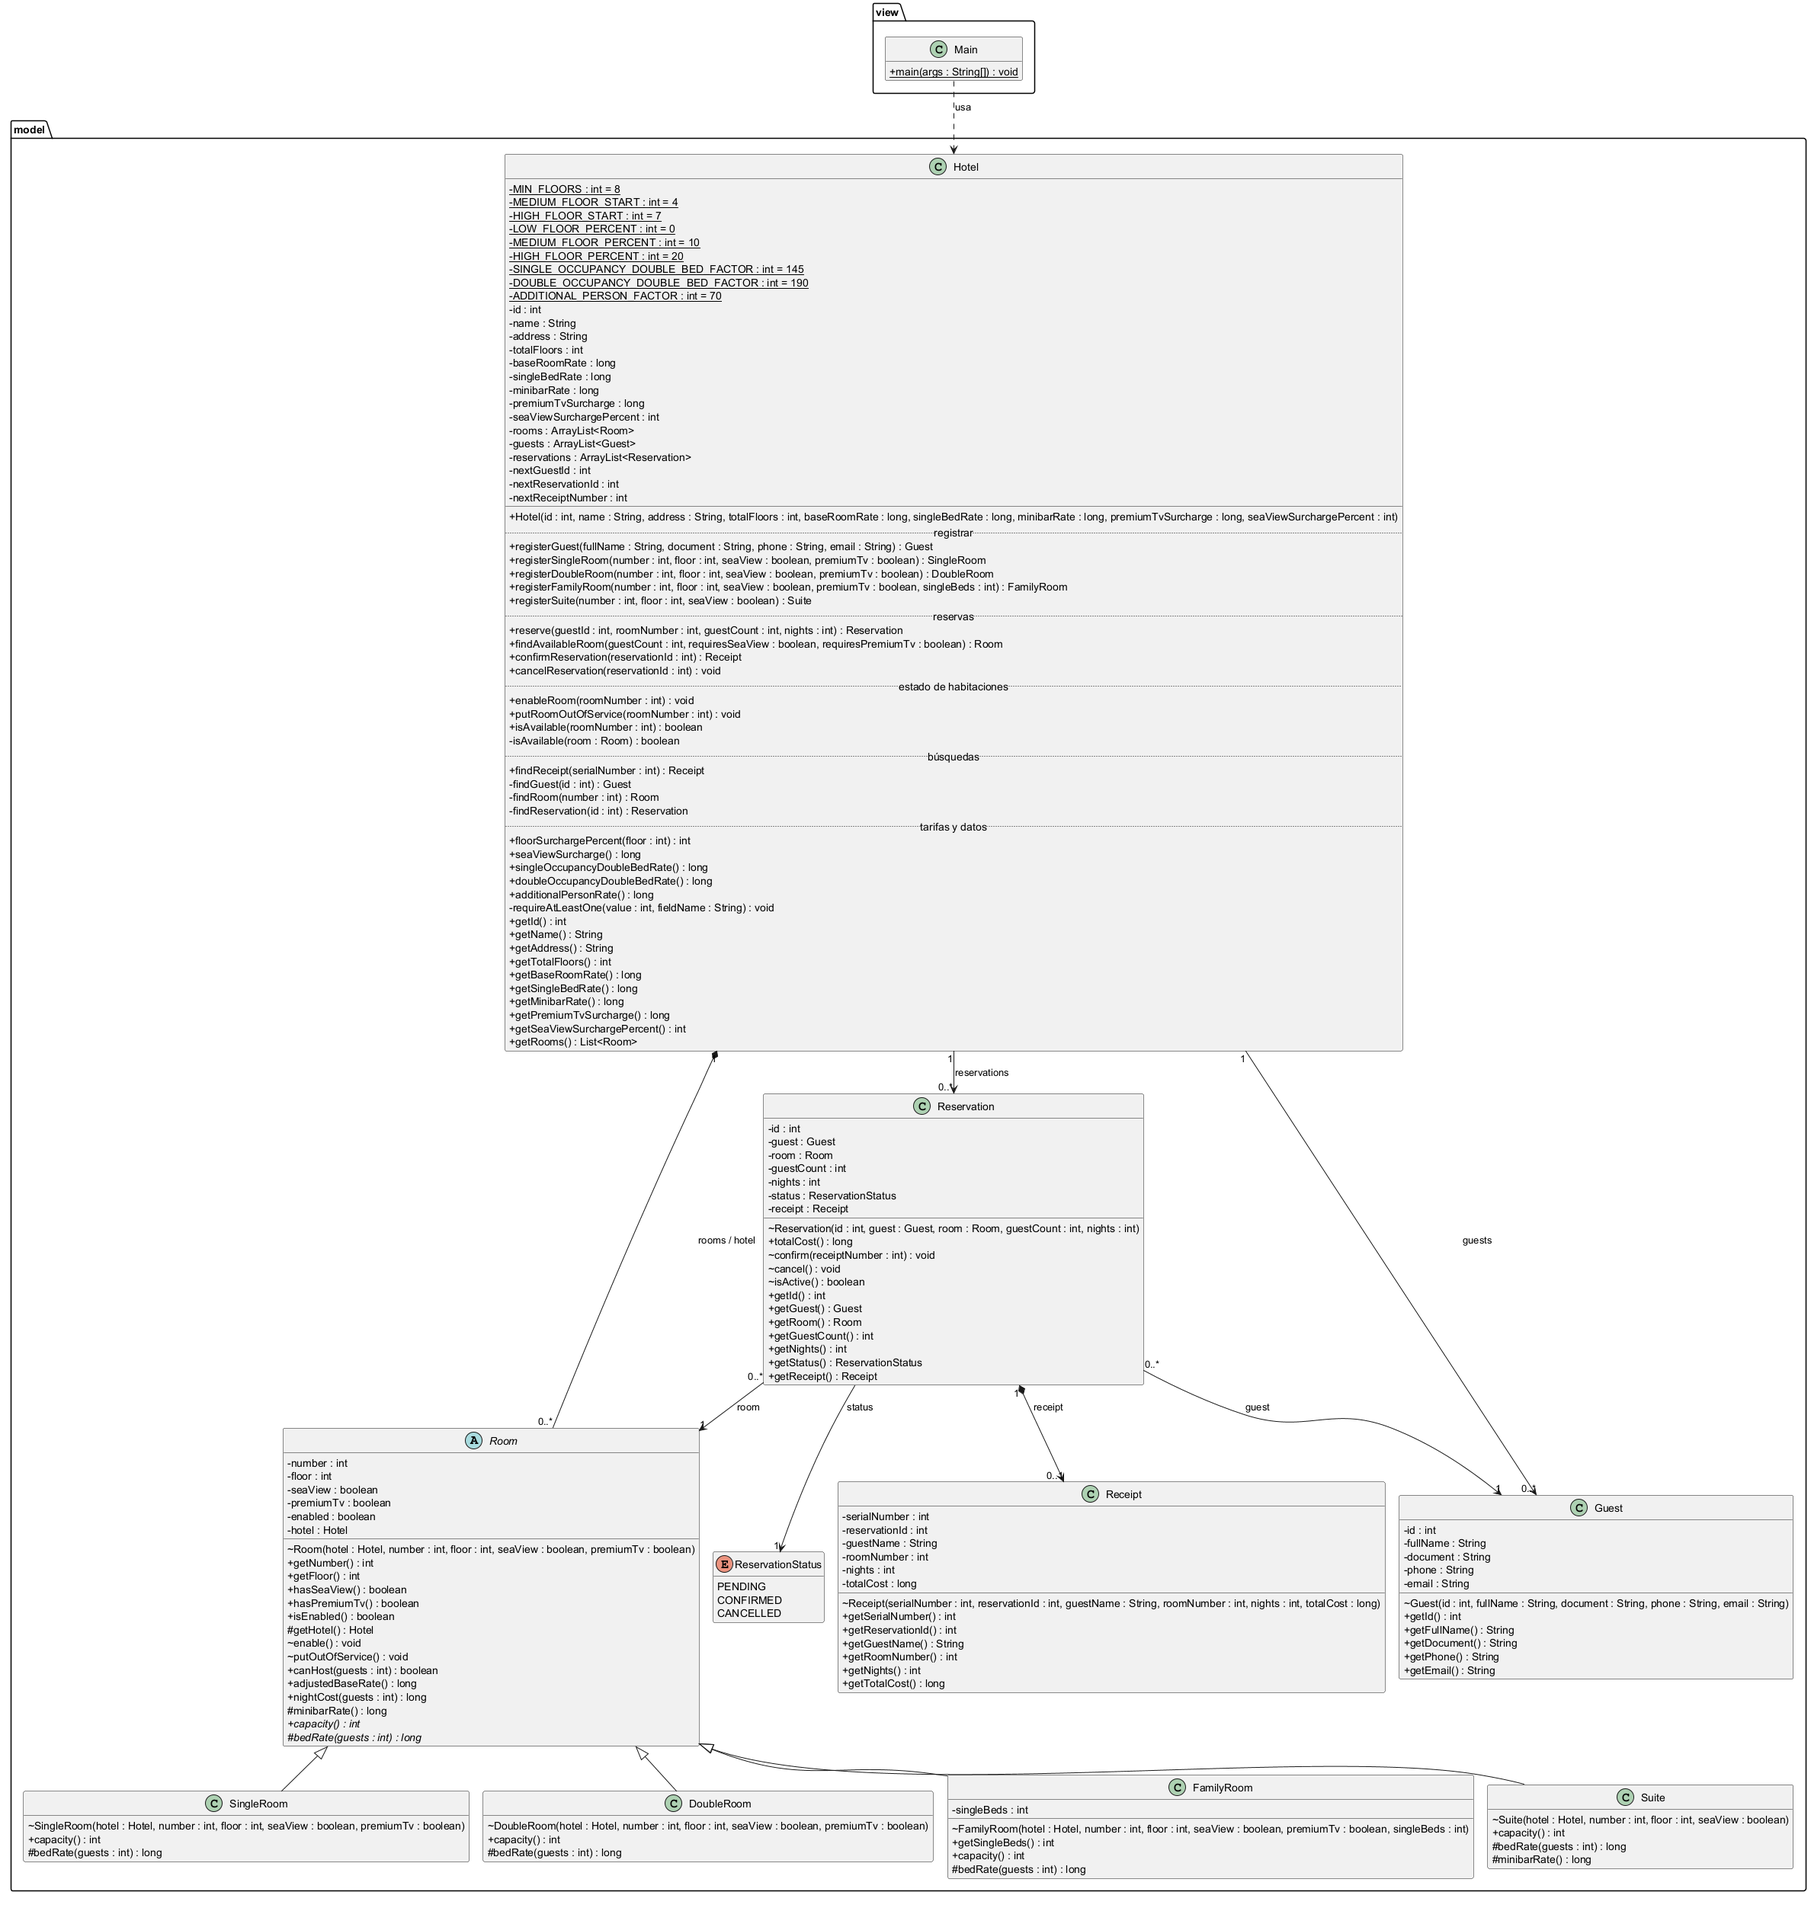
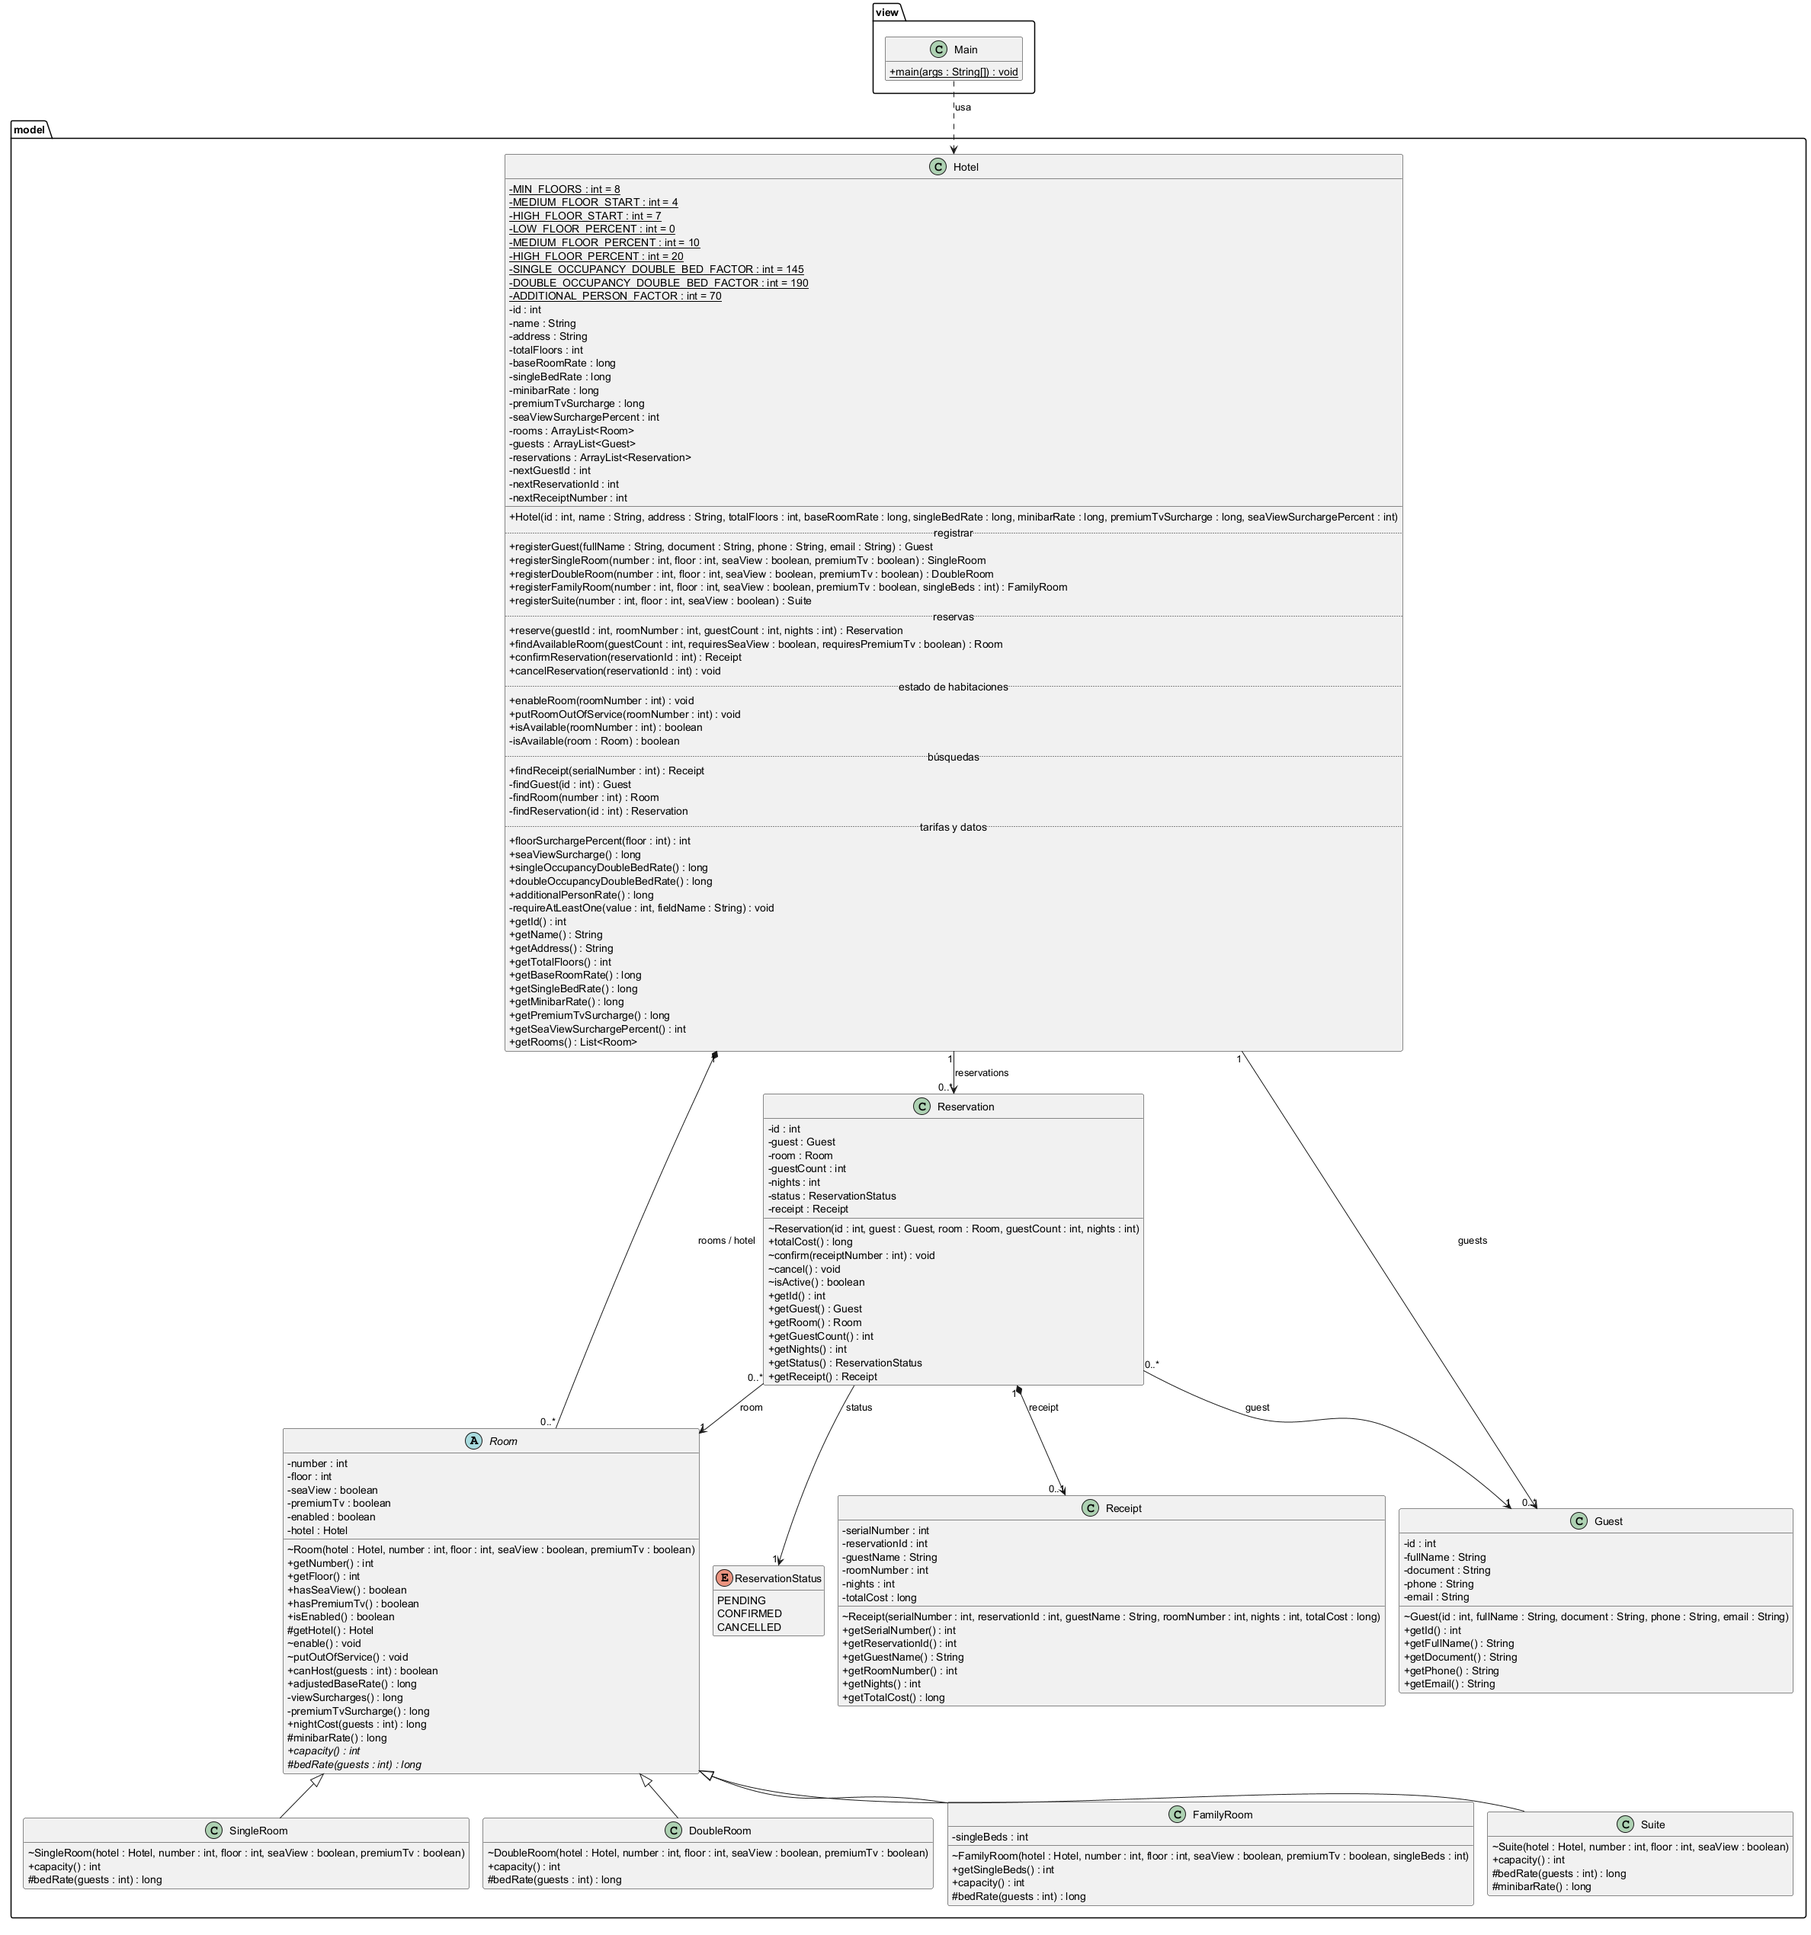
Add Room abstract class and Hotel core
Room holds the shared room data, the service state and the night
cost calculation (Template Method); subclasses will supply capacity
and bed rate.

Hotel core: floor band and bed factor constants, attributes,
constructor validations, getters and the rate calculations Room uses.
The reservations list stays commented out until Reservation exists.

Docs: D34 naming convention and Room helper methods in the diagram.

diff --git a/src/model/Hotel.java b/src/model/Hotel.java
@@ -1,0 +1,149 @@
+package model;
+
+import java.util.ArrayList;
+import java.util.Collections;
+import java.util.List;
+
+public class Hotel {
+
+    private static final int MIN_FLOORS = 8;
+
+    // Floor bands for the sea view surcharge: low 1-3, medium 4-6, high 7 and up.
+    private static final int MEDIUM_FLOOR_START = 4;
+    private static final int HIGH_FLOOR_START = 7;
+    private static final int LOW_FLOOR_PERCENT = 0;
+    private static final int MEDIUM_FLOOR_PERCENT = 10;
+    private static final int HIGH_FLOOR_PERCENT = 20;
+
+    // Bed rates as a percentage of the single bed rate.
+    private static final int SINGLE_OCCUPANCY_DOUBLE_BED_FACTOR = 145;
+    private static final int DOUBLE_OCCUPANCY_DOUBLE_BED_FACTOR = 190;
+    private static final int ADDITIONAL_PERSON_FACTOR = 70;
+
+    private final ArrayList<Room> rooms = new ArrayList<>();
+    private final ArrayList<Guest> guests = new ArrayList<>();
+    // TODO: enable when Reservation exists.
+    // private final ArrayList<Reservation> reservations = new ArrayList<>();
+    private int nextGuestId = 0;
+    private int nextReservationId = 0;
+    private int nextReceiptNumber = 0; 
+
+
+    private final int id;
+    private final String name;
+    private final String address;
+    private final int totalFloors;
+    private final long baseRoomRate;
+    private final long singleBedRate;
+    private final long minibarRate;
+    private final long premiumTvSurcharge;
+    private final int seaViewSurchargePercent;
+    
+    public Hotel(int id, String name, String address, int totalFloors, long baseRoomRate, long singleBedRate, long minibarRate, long premiumTvSurcharge, int seaViewSurchargePercent){
+        
+        validateArgument(id, 1, "El ID del hotel debe ser mayor que cero");
+        this.id = id;
+        validateNotBlank(name, "Nombre");
+        this.name = name;
+        validateNotBlank(address, "Dirección");
+        this.address = address;
+        validateArgument(totalFloors, MIN_FLOORS, "El hotel debe tener como mínimo " + MIN_FLOORS + " pisos");
+        this.totalFloors = totalFloors;
+        validateArgument(baseRoomRate, 1, "El precio base por habitación debe ser mayor que cero");
+        this.baseRoomRate = baseRoomRate;
+        validateArgument(singleBedRate, 1, "El precio base por cama debe ser mayor que cero");
+        this.singleBedRate = singleBedRate;
+        validateArgument(minibarRate, 1, "El costo por minibar debe ser mayor que cero");
+        this.minibarRate = minibarRate;
+        validateArgument(premiumTvSurcharge, 1, "El recargo por TV premium debe ser mayor que cero");
+        this.premiumTvSurcharge = premiumTvSurcharge;
+        validateArgument(seaViewSurchargePercent, 1, "El porcentaje de recargo por vista al mar debe ser mayor que cero");
+        this.seaViewSurchargePercent = seaViewSurchargePercent;
+    }
+
+    // --- Attribute queries ---
+
+    public int getId(){
+        return id;
+    }
+
+    public String getName(){
+        return name;
+    }
+
+    public String getAddress(){
+        return address;
+    }
+
+    public int getTotalFloors(){
+        return totalFloors;
+    }
+
+    public long getBaseRoomRate(){
+        return baseRoomRate;
+    }
+
+    public long getSingleBedRate(){
+        return singleBedRate;
+    }
+
+    public long getMinibarRate(){
+        return minibarRate;
+    }
+
+    public long getPremiumTvSurcharge(){
+        return premiumTvSurcharge;
+    }
+
+    public int getSeaViewSurchargePercent(){
+        return seaViewSurchargePercent;
+    }
+
+    // Read-only view: Main can list the rooms but cannot add or remove them.
+    public List<Room> getRooms(){
+        return Collections.unmodifiableList(rooms);
+    }
+
+    // --- Validation helpers ---
+
+    private void validateArgument(long value, long min, String message){
+        if(value < min){
+            throw new IllegalArgumentException(message);
+        }
+    }
+
+    private void validateNotBlank(String value, String fieldName){
+        if(value == null || value.isBlank()){
+            throw new IllegalArgumentException("El campo " + fieldName + " no puede estar vacío");
+        }
+    }
+
+    // --- Rate calculations (used by Room and its subclasses) ---
+
+    public long seaViewSurcharge(){
+        return (baseRoomRate*seaViewSurchargePercent)/100;
+    }
+
+    public int floorSurchargePercent(int floorNumber){
+        if(floorNumber >= HIGH_FLOOR_START){
+           return HIGH_FLOOR_PERCENT;
+        }
+        if(floorNumber >= MEDIUM_FLOOR_START){
+            return MEDIUM_FLOOR_PERCENT;
+        }else{
+            return LOW_FLOOR_PERCENT;
+        }
+    }
+
+    public long singleOccupancyDoubleBedRate(){
+        return (singleBedRate*SINGLE_OCCUPANCY_DOUBLE_BED_FACTOR)/100;
+    }
+
+    public long doubleOccupancyDoubleBedRate(){
+        return (singleBedRate*DOUBLE_OCCUPANCY_DOUBLE_BED_FACTOR)/100;
+    }
+
+    public long additionalPersonRate(){
+        return (singleBedRate*ADDITIONAL_PERSON_FACTOR)/100;
+    }
+}

diff --git a/src/model/Room.java b/src/model/Room.java
@@ -1,0 +1,112 @@
+package model;
+
+/**
+ * Base class for all room types. Subclasses define capacity and bed rate.
+ */
+public abstract class Room {
+
+    private final int number;
+    private final int floor;
+    private final boolean seaView;
+    private final boolean premiumTv;
+    private final Hotel hotel;
+    private boolean enabled;
+
+    // --- Construction (only Hotel creates rooms) ---
+
+    Room(Hotel hotel, int number, int floor, boolean seaView, boolean premiumTv){
+        if(number <= 0){
+            throw new IllegalArgumentException("El número de habitación debe ser mayor que cero");
+        }
+        this.number = number;
+
+        if(floor <= 0 || floor > hotel.getTotalFloors()){
+            throw new IllegalArgumentException("Solo se admiten pisos entre 1 y " + hotel.getTotalFloors());
+        }
+        this.floor = floor;
+
+        this.hotel = hotel;
+        this.seaView = seaView;
+        this.premiumTv = premiumTv;
+        enabled = true;
+    }
+
+    // --- Attribute queries ---
+
+    public int getNumber(){
+        return number;
+    }
+
+    public int getFloor(){
+        return floor;
+    }
+
+    public boolean hasSeaView(){
+        return seaView;
+    }
+
+    public boolean hasPremiumTv(){
+        return premiumTv;
+    }
+
+    protected Hotel getHotel(){
+        return hotel;
+    }
+
+    // --- Service state (changed only by Hotel) ---
+
+    public boolean isEnabled(){
+        return enabled;
+    }
+
+    void enable(){
+        enabled = true;
+    }
+
+    void putOutOfService(){
+        enabled = false;
+    }
+
+    // --- Capacity ---
+
+    public abstract int capacity();
+
+    public boolean canHost(int numberOfGuests){
+        return capacity() >= numberOfGuests;
+    }
+
+    // --- Night cost (Template Method) ---
+
+    public long nightCost(int guests){
+        return bedRate(guests) + adjustedBaseRate() + minibarRate();
+    }
+
+    public long adjustedBaseRate(){
+        long adjustedBaseRate = hotel.getBaseRoomRate() + viewSurcharges() + premiumTvSurcharge();
+        return adjustedBaseRate;
+    }
+
+    private long viewSurcharges(){
+        long viewSurcharges = 0;
+        if(hasSeaView()){
+            viewSurcharges = hotel.seaViewSurcharge() + (hotel.seaViewSurcharge() * hotel.floorSurchargePercent(floor)) / 100;
+        }
+        return viewSurcharges;
+    }
+
+    private long premiumTvSurcharge(){
+        long premiumTvSurcharge = 0;
+        if(hasPremiumTv()){
+            premiumTvSurcharge = hotel.getPremiumTvSurcharge();
+        }
+        return premiumTvSurcharge;
+    }
+
+    // Overridden by each subclass.
+    protected abstract long bedRate(int guests);
+
+    // Default 0; only Suite overrides it.
+    protected long minibarRate(){
+        return 0;
+    }
+}

diff --git a/docs/DecisionesDiseno.md b/docs/DecisionesDiseno.md
@@ -29,7 +29,8 @@ Registro breve: decisión, regla del enunciado (R#) y justificación.
 - **D17. Room: atributos.** Fijos: number, floor (`int`), seaView, premiumTv (`boolean`) y hotel (`Hotel`, el lado de Room en la bidireccional D04). Cambiante: enabled (`boolean`), que se modifica con enable y putOutOfService en vez de un setter genérico (Evans, *Intention-Revealing Interfaces*; son los términos del diccionario del enunciado). No se guardan la capacidad (sale de las camas, así que es un método abstracto) ni la disponibilidad (D05). El piso no se deriva del número: "902 = piso 9" es una convención nuestra (D08), no una regla del dominio, y "el primer dígito" falla desde el piso 10. La TV premium es una característica fija de la habitación (la solicitud del huésped "no modifica las características"); la solicitud es solo un criterio de búsqueda de Hotel.
 - **D18. Creación de habitaciones.** Main crea el hotel y después le pide registrar cada habitación, una por una (Parte 2B: "cree y registre las habitaciones"). Hotel revisa que el número no esté repetido, crea la subclase pasándose a sí mismo y la agrega a su lista al final. El constructor de Room (de paquete) valida número > 0 (regla nuestra) y piso entre 1 y el total. Los constructores no se heredan: cada subclase llama primero al de Room y luego valida solo lo suyo (FamilyRoom: de 2 a 4 camas sencillas; Suite: uno de los dos pisos superiores, y le pasa premiumTv = verdadero a Room). Cada regla se valida en un solo lugar (Meyer, no redundancia; DRY).
 - **D19. Las listas del hotel son `ArrayList`** (habitaciones, huéspedes y reservas). El dominio no fija un máximo; un arreglo fijo obligaría a inventarlo y a validar "lleno".
-- **D20. Room: métodos.** Consultas públicas: getNumber, getFloor, hasSeaView, hasPremiumTv, isEnabled; getHotel es protegido (las subclases lo usan para pedir tarifas). Órdenes `void`: enable, putOutOfService. Cálculos en `long`: adjustedBaseRate (TBA; público porque Main debe mostrar tarifas), nightCost(guests) = TBA + bedRate + minibarRate (público; *Template Method*, Gamma et al.) y minibarRate (protegido, devuelve 0; Suite lo sobrescribe). Abstractos: capacity (público, `int`) y bedRate(guests) (protegido, `long`). Sin if ni switch por tipo: despacho polimórfico. canHost: ver D21.
+- **D20. Room: métodos.** Consultas públicas: getNumber, getFloor, hasSeaView, hasPremiumTv, isEnabled; getHotel es protegido (las subclases lo usan para pedir tarifas). Órdenes `void`: enable, putOutOfService. Cálculos en `long`: adjustedBaseRate (TBA; público porque Main debe mostrar tarifas), nightCost(guests) = TBA + bedRate + minibarRate (público; *Template Method*, Gamma et al.) y minibarRate (protegido, devuelve 0; Suite lo sobrescribe). Abstractos: capacity (público, `int`) y bedRate(guests) (protegido, `long`). Sin if ni switch por tipo: despacho polimórfico. canHost: ver D21. Al implementar, Luis separó adjustedBaseRate en dos ayudantes privados: viewSurcharges() (recargo por vista + recargo por piso, solo si tiene vista) y premiumTvSurcharge() (recargo de TV, solo si la tiene).
+- **D34. Convención de nombres (decisión de Luis al implementar).** `get`/`is`/`has` solo para devolver un atributo guardado (getNumber, isEnabled, hasSeaView, getPremiumTvSurcharge); los cálculos se nombran por lo que devuelven, sin `get` (adjustedBaseRate, nightCost, totalCost, seaViewSurcharge, floorSurchargePercent). Así se distingue a simple vista qué se guarda y qué se calcula.
 - **D21. canHost(guests) → `boolean`: concreto y público en Room.** Responde si la cantidad de huéspedes cabe en su capacidad (huéspedes ≤ capacity()). Va en Room y no en las subclases porque la comparación es igual para todas; solo varía capacity, que es abstracto (Gamma et al., *Template Method*; Larman, *Information Expert*: la habitación conoce su capacidad). Se pregunta en dos momentos: cuando Hotel recorre sus habitaciones para buscar un perfil, y cuando se reserva una habitación concreta (también si se pide por número, A2). **"Al menos 1 huésped" lo valida Hotel**, al empezar a buscar y al empezar a reservar, porque es un error de la solicitud, no un límite de la habitación. Se detiene antes de preguntar a ninguna habitación y con un mensaje claro (Shore, "Fail Fast", *IEEE Software*, 2004). Para canHost es una precondición: el número ya llega validado y canHost no lo vuelve a revisar (Meyer, *Applying Design by Contract*, 1992, no redundancia). [Propuesta de Claude, pendiente de verificar] Un método privado de Hotel con esa validación, usado por buscar y reservar, para no escribirla dos veces.
 - **D22. Subclases de Room.** Las camas de cada habitación son fijas: se definen al crearla y no cambian. Single, Double y Suite son todas iguales dentro de su tipo, así que no necesitan atributo de camas; las habitaciones familiares varían entre sí, así que FamilyRoom guarda su cantidad de camas sencillas (fija, entre 2 y 4, D18). La Double es una cama doble, no dos sencillas (enunciado, sección 2).
 
